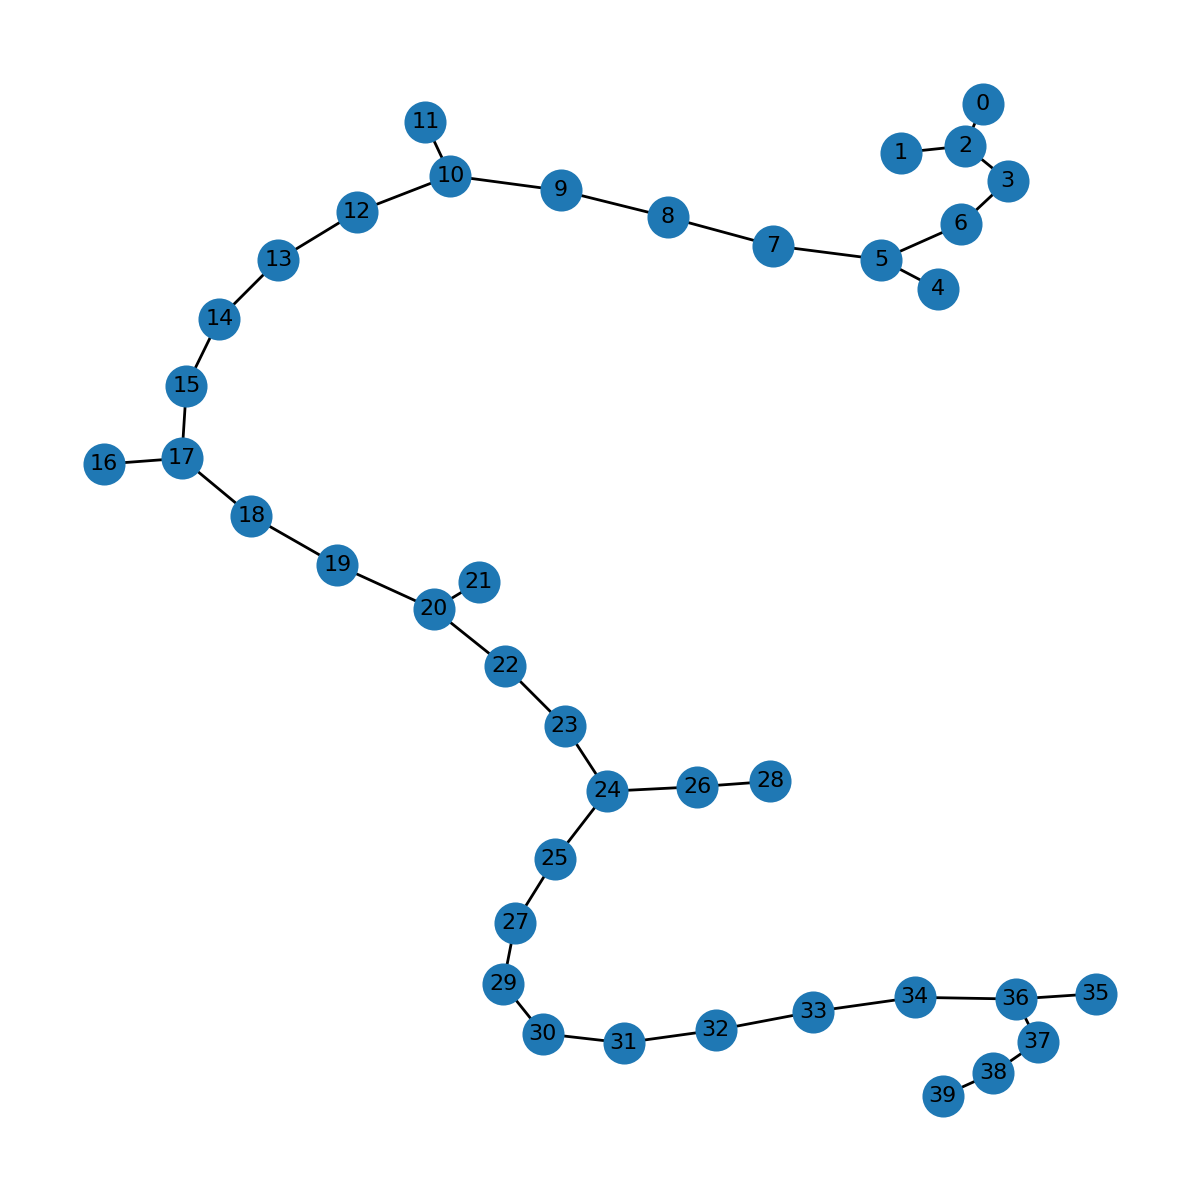
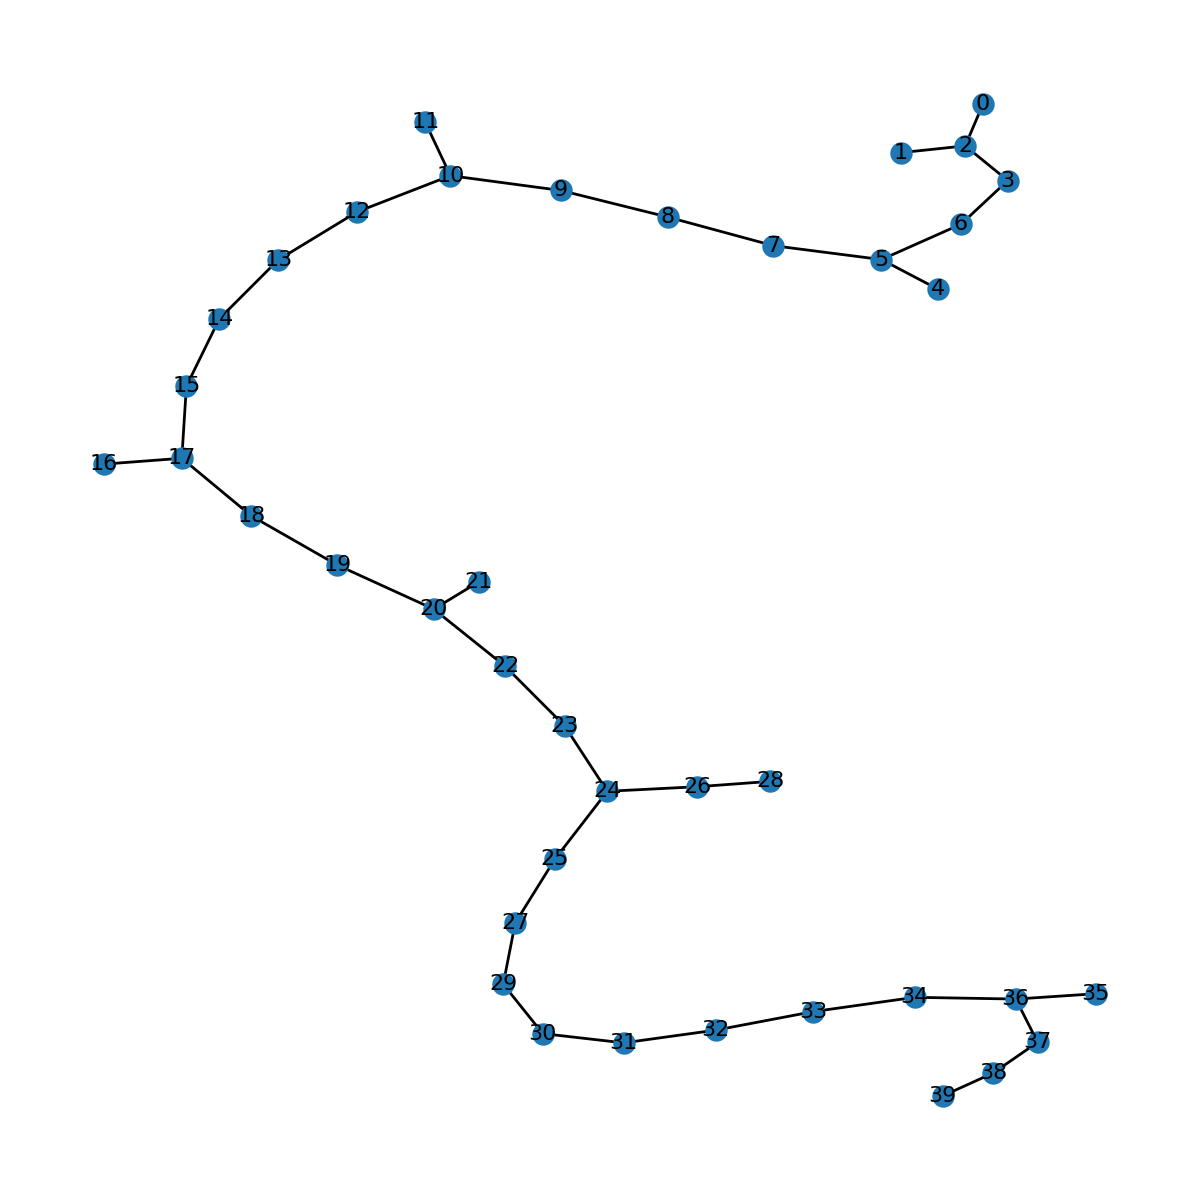
Adjust font size

diff --git a/core/graph_ssm/tree_utils_tests/test_pruning.py b/core/graph_ssm/tree_utils_tests/test_pruning.py
@@ -28,7 +28,7 @@ def _safe_draw(edges_tensor: torch.Tensor, file_name: str):
     pos = nx.spring_layout(G, seed=0)
 
     plt.figure(figsize=(6, 6))
-    nx.draw(G, pos, with_labels=True, node_size=200, font_size=8)
+    nx.draw(G, pos, with_labels=True, node_size=100, font_size=8)
     plt.tight_layout()
 
     import os
